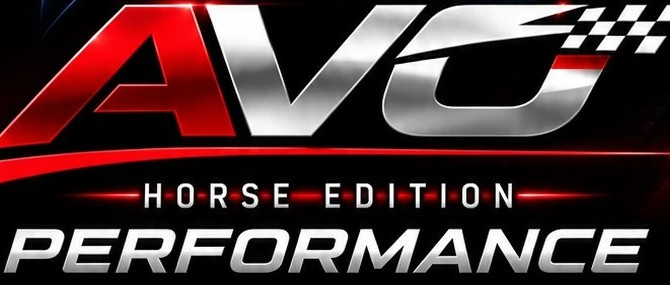
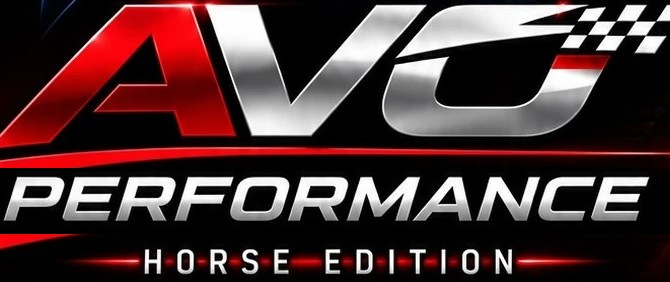
Logotipo de los informes: PERFORMANCE arriba y HORSE EDITION debajo (iPad y Windows)
Claude-Session: https://claude.ai/code/session_01CHDvF7AVKjQsdZLbt9UoYL

diff --git a/docs/REGISTRO_DE_CAMBIOS.md b/docs/REGISTRO_DE_CAMBIOS.md
@@ -24,6 +24,12 @@ proyecto. Rama de integración: **`develop/avo-performance-horse`**.
 
 ---
 
+## 2026-11-16 — Logotipo de los informes: «PERFORMANCE» arriba y «HORSE EDITION» debajo
+**Autor:** Claude · **Rama:** `feature/logo-performance-arriba`
+**Qué cambia:** en el logotipo de la cabecera de los informes (`report_text.jpg`) se intercambian las dos bandas: «PERFORMANCE» pasa justo bajo «AVO» y «HORSE EDITION» va debajo. Mismo tamaño (670 × 282 px). Se cambia en el iPad (`Assets.xcassets/report_text.imageset`) y en Windows (`AVO.Windows.Core/Reports`), que comparten el mismo archivo.
+**Por qué:** petición del entrenador (16/11/2026).
+**Estado:** imagen cambiada · NO VERIFICADO en los PDF generados en el iPad.
+
 ## 2026-11-16 — iPad — Cuadra: número de carreras de cada caballo
 **Autor:** Claude · **Rama:** `feature/ipad-cuadra-carreras`
 **Qué cambia:** en la lista de la Cuadra cada caballo muestra su número de carreras importadas («1 carrera», «0 carreras»), antes del número de entrenamientos.
